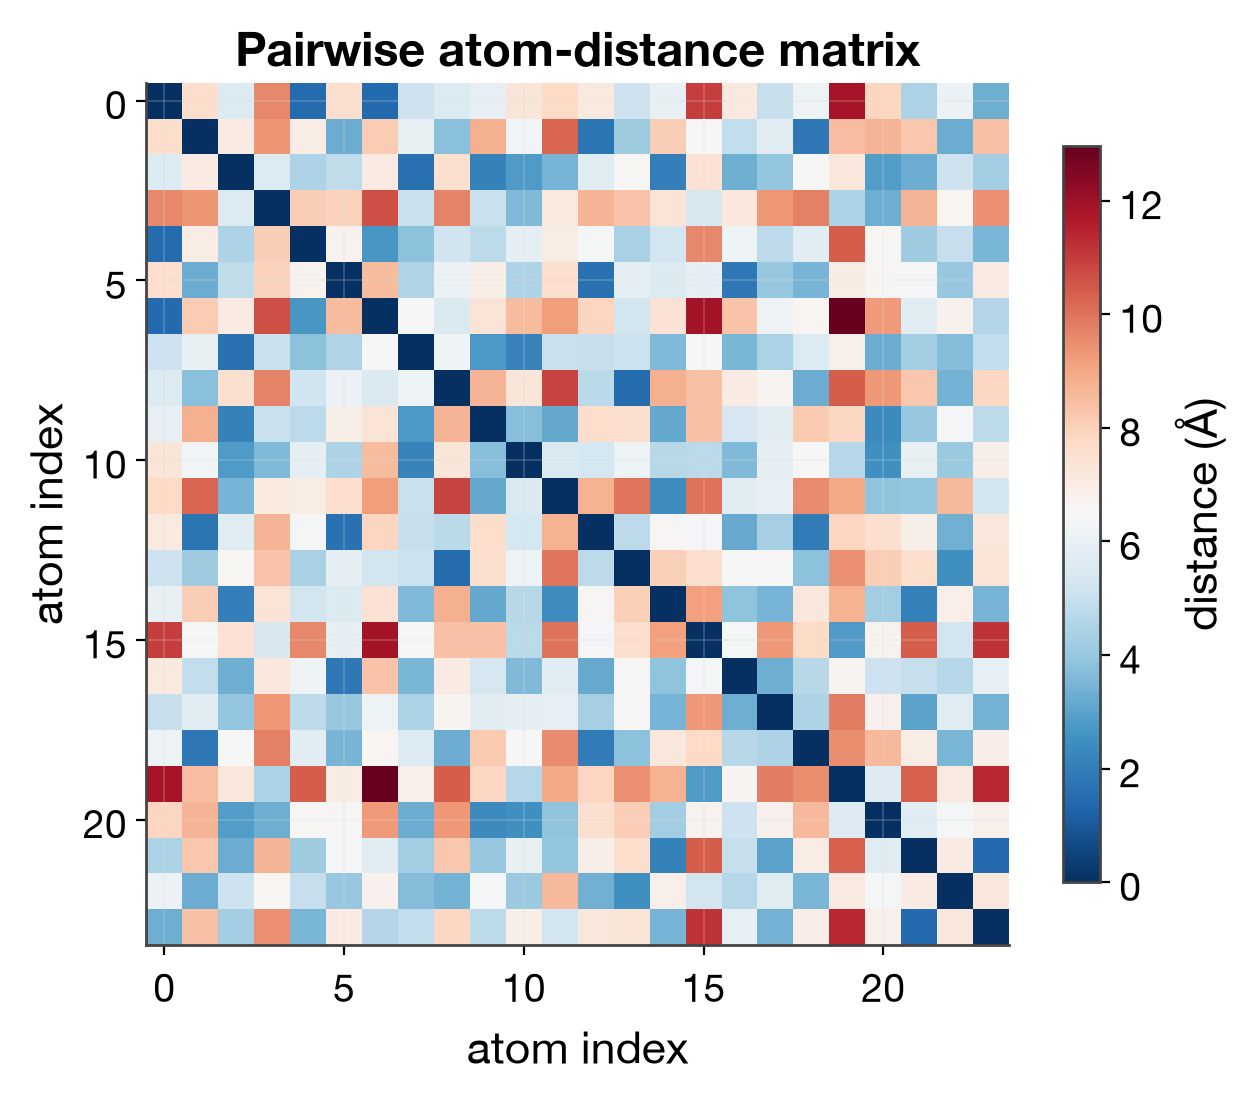
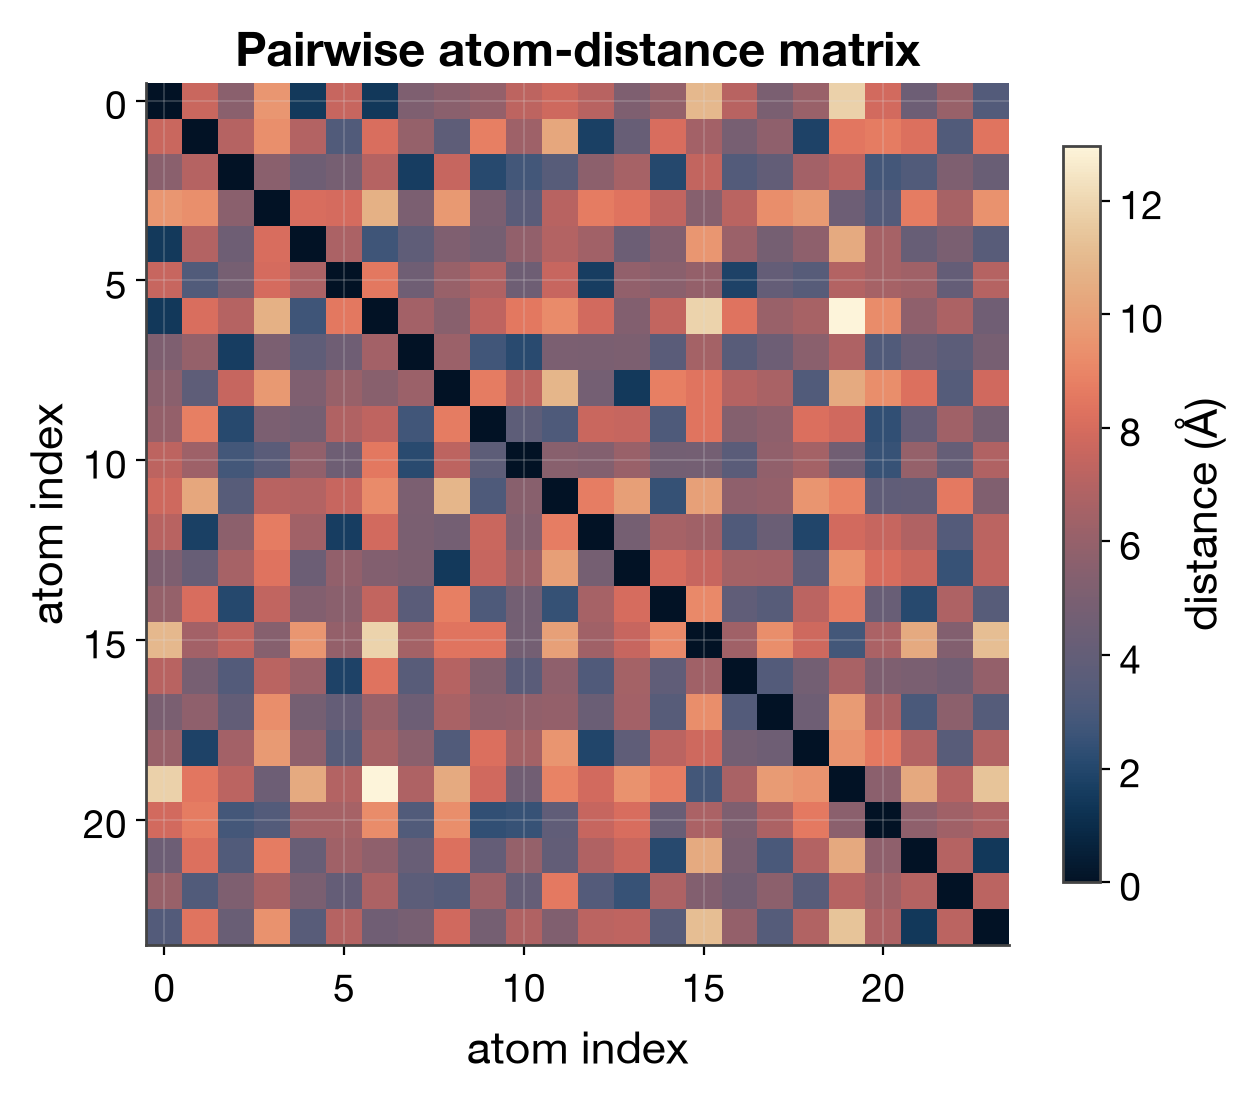
feat: lock in house colormap defaults (crameri:lipari/contrib:pampa/cmocean:phase)
Adds mmml.utils.plotting.styles.default_cmap(kind) resolving the chosen
sequential/diverging/cyclic defaults, decided from the rendered shortlist in
docs/plot-style-gallery.md. Also fixes a real correctness bug found while
wiring this in: scripts/render_chart_type_gallery.py::matshow_heatmap used a
diverging colormap (RdBu_r) on a strictly-positive distance matrix, which
implies a sign change that isn't there -- now uses default_cmap("sequential").

docs/plotting-style-guide.md and docs/plot-style-gallery.md updated from
"recommendation pending" to the decided defaults.

diff --git a/mmml/utils/plotting/styles.py b/mmml/utils/plotting/styles.py
@@ -19,6 +19,10 @@ __all__ = [
     "legend_outside",
     "seed_symbol",
     "SEED_DICE",
+    "default_cmap",
+    "DEFAULT_SEQUENTIAL_CMAP",
+    "DEFAULT_DIVERGING_CMAP",
+    "DEFAULT_CYCLIC_CMAP",
 ]
 
 
@@ -562,6 +566,41 @@ PLOT_STYLES: dict[str, PlotStyle] = {
 }
 
 DEFAULT_PLOT_STYLE = "google"
+
+# House colormap defaults -- chosen from a rendered shortlist, see
+# docs/plot-style-gallery.md "Colormap picks: choosing defaults". Perceptually
+# uniform/colorblind-safe where possible; muted rather than high-saturation
+# per the "quiet" Tufte-aligned house look.
+DEFAULT_SEQUENTIAL_CMAP = "crameri:lipari"
+DEFAULT_DIVERGING_CMAP = "contrib:pampa"
+DEFAULT_CYCLIC_CMAP = "cmocean:phase"
+
+
+def default_cmap(kind: str):
+    """Resolve one of the house colormap defaults to a matplotlib Colormap.
+
+    ``kind`` is one of ``"sequential"``, ``"diverging"``, ``"cyclic"`` --
+    see docs/plotting-style-guide.md "Colormaps" for when to use which, and
+    never use a diverging map on strictly-positive data or vice versa.
+    Requires the optional ``cmap`` library (``pip install cmap`` / the
+    ``plotting`` extra); raises with an explicit message if missing rather
+    than silently falling back to an unrelated matplotlib colormap.
+    """
+    names = {
+        "sequential": DEFAULT_SEQUENTIAL_CMAP,
+        "diverging": DEFAULT_DIVERGING_CMAP,
+        "cyclic": DEFAULT_CYCLIC_CMAP,
+    }
+    if kind not in names:
+        raise ValueError(f"kind must be one of {sorted(names)}; got {kind!r}")
+    try:
+        import cmap as cmap_lib
+    except ImportError as exc:
+        raise ImportError(
+            "default_cmap() requires the 'cmap' library -- install the "
+            "'plotting' extra (uv sync --extra plotting) or `pip install cmap`."
+        ) from exc
+    return cmap_lib.Colormap(names[kind]).to_mpl()
 
 _STYLE_ALIASES = {
     "default": DEFAULT_PLOT_STYLE,

diff --git a/scripts/render_chart_type_gallery.py b/scripts/render_chart_type_gallery.py
@@ -221,15 +221,22 @@ def matshow_heatmap(out: Path) -> None:
 
     Tufte principle: color encodes magnitude directly on the natural (i, j)
     grid the data already has -- no need to invent x/y positions the way a
-    scatter would.
+    scatter would. Distance is strictly positive (no natural zero to
+    diverge around), so this uses the house **sequential** default
+    (`crameri:lipari`), not a diverging map -- see
+    docs/plotting-style-guide.md "Colormaps" for why the earlier version of
+    this exact panel (diverging `RdBu_r` on positive-only distances) was a
+    real mismatch, not just a style choice.
     """
+    from mmml.utils.plotting.styles import default_cmap
+
     n = 24
     rng_positions = RNG.uniform(0, 10, size=(n, 3))
     diff = rng_positions[:, None, :] - rng_positions[None, :, :]
     dist = np.linalg.norm(diff, axis=-1)
 
     fig, ax = plt.subplots(figsize=(6.5, 5.5))
-    im = ax.matshow(dist, cmap="RdBu_r", vmin=0, vmax=dist.max())
+    im = ax.matshow(dist, cmap=default_cmap("sequential"), vmin=0, vmax=dist.max())
     ax.xaxis.set_ticks_position("bottom")
     ax.set_xlabel("atom index")
     ax.set_ylabel("atom index")

diff --git a/docs/plotting-style-guide.md b/docs/plotting-style-guide.md
@@ -321,21 +321,43 @@ perceptually uniform and colorblind-safe, unlike matplotlib's legacy maps
 (`jet`, `rainbow` — never use these, they imply false discontinuities in
 continuous data).
 
+**House defaults** (chosen from a rendered shortlist — see
+[`docs/plot-style-gallery.md`](plot-style-gallery.md) "Colormap picks"),
+wired into `mmml.utils.plotting.styles.default_cmap(kind)`:
+
 ```python
-import cmap
-mpl_cmap = cmap.Colormap("crameri:batlow").to_mpl()  # feed straight to plt/ax
+from mmml.utils.plotting.styles import default_cmap
+
+ax.pcolormesh(xx, yy, zz, cmap=default_cmap("sequential"))  # -> crameri:lipari
+ax.pcolormesh(xx, yy, zz, cmap=default_cmap("diverging"))   # -> contrib:pampa
+ax.pcolormesh(xx, yy, zz, cmap=default_cmap("cyclic"))      # -> cmocean:phase
 ```
 
-- **Sequential** data (magnitude only, e.g. a distance or density): a single
-  perceptually-uniform ramp — `viridis`, `cmocean:haline`, `crameri:batlow`.
-- **Diverging** data (a meaningful zero/center, e.g. energy relative to a
-  reference): a two-hue ramp through a neutral midpoint —
-  `cmocean:balance`, `crameri:vik`. Never a diverging map for
-  strictly-positive data (it implies a sign change that isn't there).
+Use `default_cmap(kind)` rather than hand-picking a name, so a future change
+to the house default only needs updating in one place:
+
+- **Sequential** (magnitude only, e.g. a distance or density — strictly
+  positive, no natural zero): `default_cmap("sequential")` →
+  `crameri:lipari`, perceptually-uniform and colorblind-safe.
+- **Diverging** (a meaningful zero/center, e.g. energy relative to a
+  reference): `default_cmap("diverging")` → `contrib:pampa`, muted rather
+  than high-saturation, so it doesn't compete with the data. Never use a
+  diverging map on strictly-positive data (it implies a sign change that
+  isn't there) — a real bug fixed in
+  `scripts/render_chart_type_gallery.py::matshow_heatmap`, which originally
+  used a diverging map on a positive-only distance matrix.
+- **Cyclic** (a periodic quantity, e.g. a dihedral angle or phase):
+  `default_cmap("cyclic")` → `cmocean:phase` — the value at 0° and 360°
+  must render as the *same* color, which only a cyclic map guarantees.
 - **Discrete/categorical** bins: ColorBrewer's `colorbrewer:*` maps render as
   visibly stepped bands rather than a smooth ramp — that's correct for truly
   binned data, not a bug; don't reach for one when the underlying quantity
   is actually continuous.
 
-See [`docs/plot-style-gallery.md`](plot-style-gallery.md) "Colormaps (via the
-`cmap` library)" for a rendered side-by-side comparison.
+`default_cmap` requires the optional `cmap` library (`uv sync --extra
+plotting` / `pip install cmap`) and raises a clear `ImportError` if it's
+missing, rather than silently substituting an unrelated matplotlib colormap.
+
+See [`docs/plot-style-gallery.md`](plot-style-gallery.md) "Colormap picks:
+choosing defaults" for the rendered comparison these defaults were chosen
+from.

diff --git a/docs/plot-style-gallery.md b/docs/plot-style-gallery.md
@@ -259,12 +259,22 @@ dihedral-angle radial histogram earlier in this gallery.
 | `yorick:stern` | misc (HDR) | Only for genuinely high-dynamic-range data (one sharp feature over a broad faint background) — not a general sequential substitute |
 | `cmocean:phase` | cyclic | The house default for any periodic quantity (angles, phases) |
 
-My recommendation, if a single default per category is needed: **`crameri:lipari`**
-(sequential) and **`cmocean:diff`** (diverging) for the most Tufte-aligned
-"quiet," perceptually-uniform defaults; **`cmocean:phase`** for cyclic (no
-real competing candidate in the shortlist). `contrib:pampa` and
-`cmocean:delta` are the strongest alternates if a bit more visual punch is
-wanted over `diff`'s muted look.
+**Decided.** House defaults, wired into
+[`mmml.utils.plotting.styles.default_cmap(kind)`](https://github.com/EricBoittier/mmml/blob/main/mmml/utils/plotting/styles.py):
+
+- **Sequential**: `crameri:lipari`
+- **Diverging**: `contrib:pampa`
+- **Cyclic**: `cmocean:phase`
+
+```python
+from mmml.utils.plotting.styles import default_cmap
+
+ax.pcolormesh(xx, yy, zz, cmap=default_cmap("sequential"))
+```
+
+`default_cmap` raises a clear `ImportError` (not a silent fallback to an
+unrelated matplotlib colormap) if the optional `cmap` library isn't
+installed — `uv sync --extra plotting` or `pip install cmap`.
 
 ## How to pick
 
